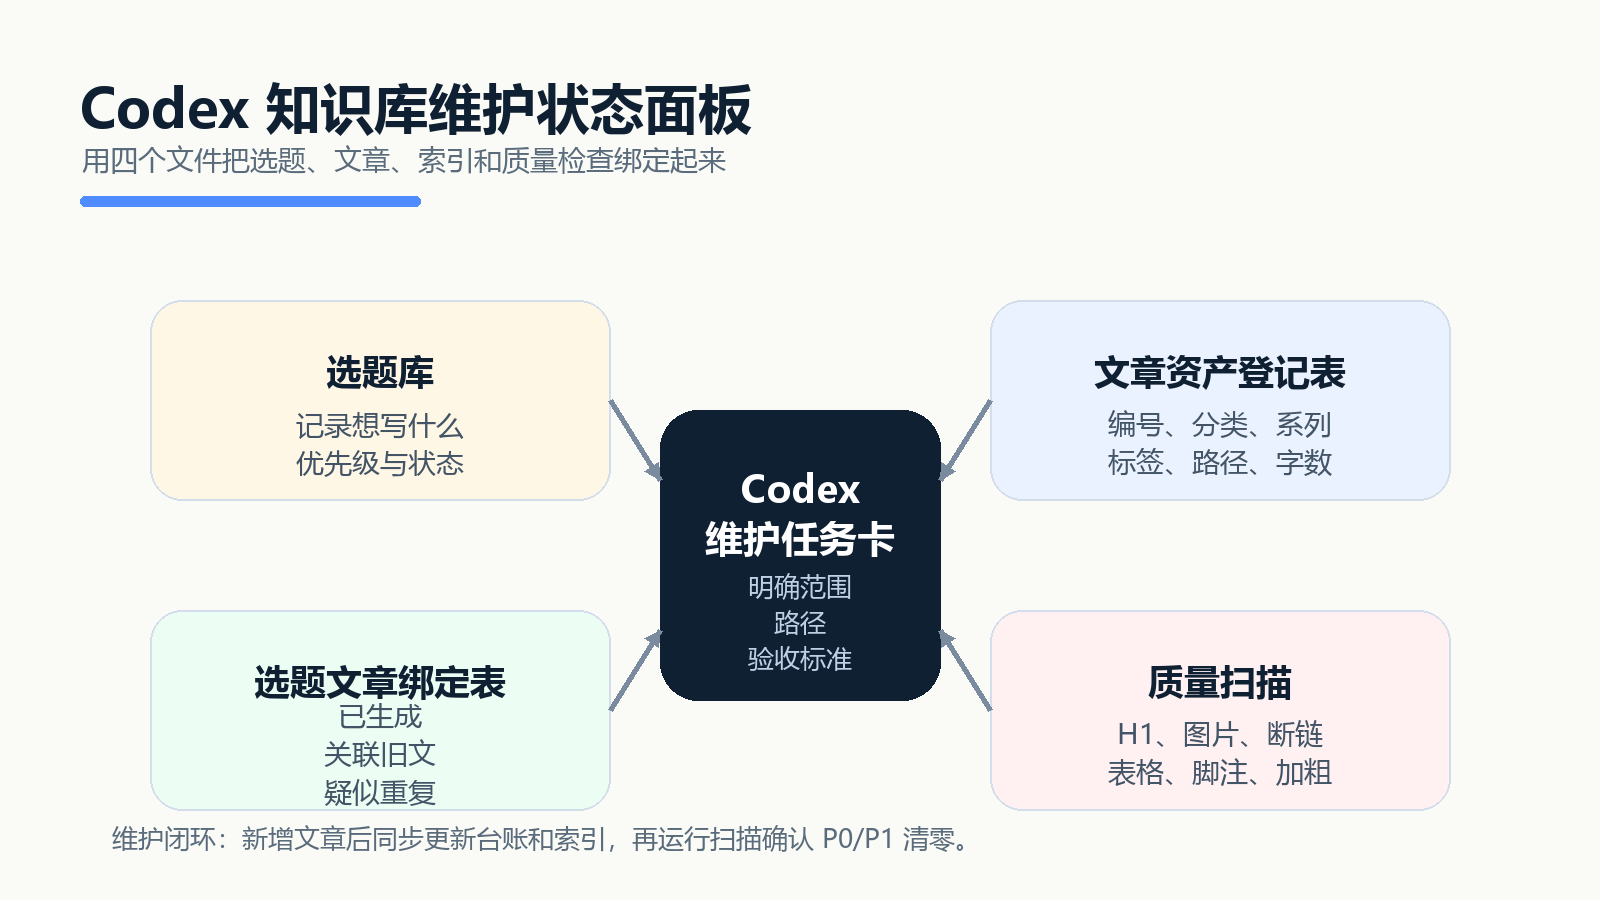
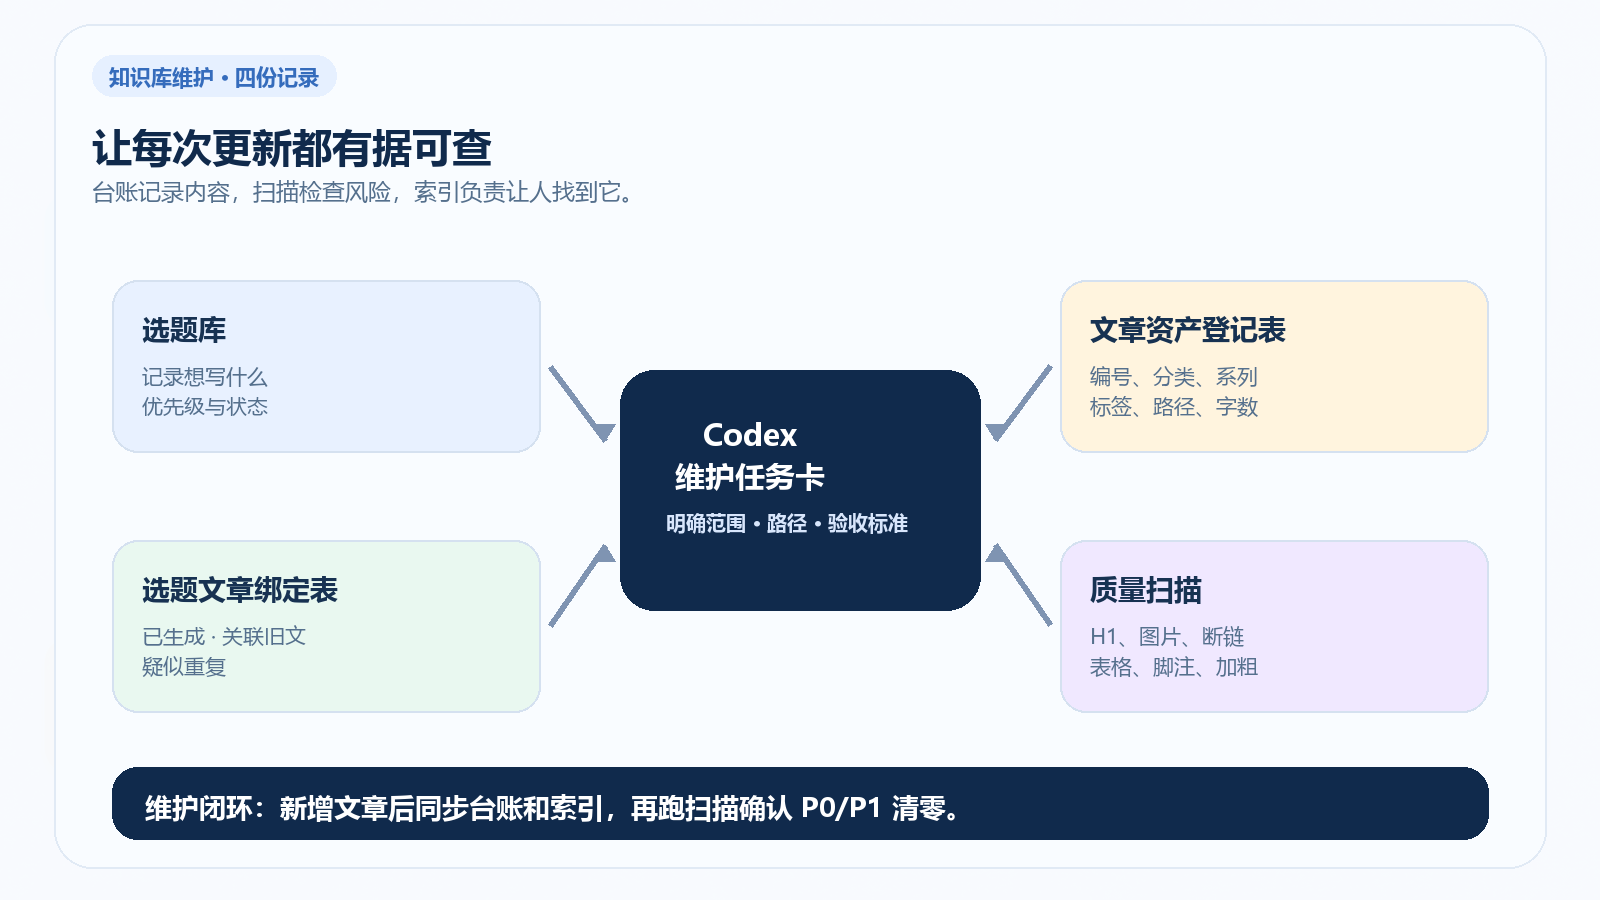
Improve article visuals and publishing metadata

diff --git a/01-工具教程/17-给 Codex 换了一套私人工作台：AI Coding 正在进入个性化时代.md b/01-工具教程/17-给 Codex 换了一套私人工作台：AI Coding 正在进入个性化时代.md
@@ -8,13 +8,11 @@
 
 私人空间不是把屏幕塞满装饰。它应该让常用区域更舒服：左侧项目更容易辨认，输入框不被干扰，任务页有稳定的视觉节奏。Dream Skin 提供的正是这种改造入口。
 
-## 一个趋势：AI Coding 进入个性化时代
+## 当使用时间变长，个性化才有价值
 
-过去，开发工具的个性化主要是深色模式、字体、主题色和插件。现在，AI Coding 已经从单次问答变成持续工作的协作界面：它既是编辑器旁的助手，也是任务队列、上下文入口和工作记录。
+开发工具的个性化常见于深色模式、字体、主题色和插件。对把 AI Coding 当作持续协作入口的人来说，界面也会承载任务上下文、项目切换和工作记录，而不只是一次问答的窗口。
 
-当工具承担的角色变多，界面自然会从统一的产品皮肤走向个人的工作环境。有人需要降低长时间工作的疲劳感，有人希望项目空间更有辨识度，也有人只是想让每天打开的 AI 工具更贴近自己的节奏。
-
-个性化的价值不在于好看，而在于把注意力留在真正要做的事上。
+这不等于每个人都需要换主题。只有当默认界面已经影响长期使用感受、又能把安装和还原边界控制清楚时，个性化才值得尝试。它的价值不在于好看，而在于把注意力留在真正要做的事上。
 
 ## Dream Skin 是什么
 
@@ -22,19 +20,19 @@ Dream Skin 是给 Codex 叠加主题效果的第三方工具，不是 OpenAI 官
 
 它能改变的是界面观感，例如背景图和主题氛围；它不会替你升级模型、扩大权限，也不会让任务能力凭空变强。因此，使用它前要先把预期放对：这是工作台体验的增强，不是功能外挂。
 
-![首次安装皮肤时的风格展示](<../08-素材库/图片/正文插图/17-给 Codex 换了一套私人工作台：AI Coding 正在进入个性化时代-正文插图04.png>)
+![个性化工作台的 AI 视觉示意](<../08-素材库/图片/正文插图/17-给 Codex 换了一套私人工作台：AI Coding 正在进入个性化时代-正文插图04.png>)
 
-*图 1：首次安装后的主题效果。保留 Codex 原生侧栏、输入框和任务区域，是判断皮肤是否影响基础布局的第一步。*
+*图 1：AI 视觉示意。主题只承载装饰层；导航、任务区与输入框仍需保持高对比和足够留白。*
 
-## 我的实际体验
+## 工作台可用性的检查点
 
-这次我选了矿工猫插画作为背景。浅色模式下，主页横幅、项目侧栏和输入区能同时保留，视觉上有了清晰的个人标识，同时没有挤压操作空间。
+下图以矿工猫主题视觉示意说明：浅色模式下，主页横幅、项目侧栏和输入区应同时保留；视觉个性不能挤压操作空间。
 
-![矿工猫皮肤的主页工作台](<../08-素材库/图片/正文插图/17-给 Codex 换了一套私人工作台：AI Coding 正在进入个性化时代-正文插图06-矿工猫主页.jpg>)
+![矿工猫主题工作台的 AI 视觉示意](<../08-素材库/图片/正文插图/17-给 Codex 换了一套私人工作台：AI Coding 正在进入个性化时代-正文插图06-矿工猫主页.jpg>)
 
-*图 2：矿工猫皮肤在 Codex 主页的实测效果。横幅背景控制在内容区域内，不遮挡左侧项目导航和底部输入框。*
+*图 2：AI 视觉示意。用“导航仍清楚、内容不抢读、输入保持可用”三项检查主题是否挤压操作空间。*
 
-实际体验也给了一个提醒：不要只在首页看一眼就认为安装成功。矿工猫图切换到深色模式后出现过显示异常，所以我没有把它当作稳定的日常配置。皮肤是否可用，要看它能不能陪你完整做完一项任务。
+这也提醒我们：不要只在首页看一眼就判断安装成功。尤其在深色模式下，若出现显示异常，就不应把主题作为稳定的日常配置。皮肤是否可用，要看它能不能陪你完整做完一项任务。
 
 ## 为什么不是简单换背景
 
@@ -42,33 +40,28 @@ Dream Skin 是给 Codex 叠加主题效果的第三方工具，不是 OpenAI 官
 
 因此，换皮肤之后要做一次真实任务页验证：新建空任务，输入文字，点击侧栏，检查建议卡，向下滚动，并确认没有横向溢出。只有这些基础动作都正常，视觉改造才没有越界。
 
-![矿工猫皮肤的新任务页验证](<../08-素材库/图片/正文插图/17-给 Codex 换了一套私人工作台：AI Coding 正在进入个性化时代-正文插图07-矿工猫任务页.jpg>)
+![矿工猫主题任务页的 AI 视觉示意](<../08-素材库/图片/正文插图/17-给 Codex 换了一套私人工作台：AI Coding 正在进入个性化时代-正文插图07-矿工猫任务页.jpg>)
 
-*图 3：新任务页验证截图。背景、欢迎语与输入框可以共存，侧栏和输入区域仍保持可用。*
+*图 3：AI 视觉示意。新建任务、输入文本、切换侧栏、滚动页面与无横向溢出，才是继续使用主题的最低验证线。*
 
 这也是选择背景图时最实用的标准：不要使用带软件界面、按钮或大段文字的截图；把视觉主体留在输入框和左侧导航之外；只导入自己有权使用的图片，并保留原图与授权记录。
 
 ## 安装教程
 
-先在一个空文件夹打开 Codex。不要一上来就执行安装，先让它阅读脚本，确认实际入口、修改范围和还原路径。可以直接发出下面这段需求：
+Dream Skin 是第三方项目，先按它的 [Release 页面](https://github.com/Fei-Away/Codex-Dream-Skin/releases)走普通用户安装流程，不要把源码开发流程和日常安装混在一起。
 
-> 请在当前工作区安装 GitHub 项目 Fei-Away/Codex-Dream-Skin。先克隆到 tools 目录，检查 Node.js 是否为 22 或更高版本，并检查 Microsoft Store 版 Codex 是否已安装。阅读仓库 windows 目录中的安装脚本，告诉我实际入口文件、会修改哪些本地配置、如何还原。不要修改 WindowsApps，也不要执行安装，等我确认。
+1. 完全退出 Codex 或 ChatGPT 桌面应用，并先保存未发送的输入与正在进行的任务。
+2. 从最新 Release 下载与系统匹配的安装包；Windows 用户运行包内的 `Setup.bat`，随后重新启动桌面应用。
+3. 先在主页看布局，再新建一个空任务：输入文字、点击侧栏、检查建议卡、向下滚动，并确认没有横向溢出。
+4. 只有这些基础动作都正常，才继续导入自己的 PNG、JPEG 或 WebP 背景图。
 
-确认说明无误后，再继续：
+普通用户安装不需要为了这一步克隆仓库，也不需要预装 Node.js。克隆仓库和 Node.js 环境属于源码查看或二次开发路径；如果你要走这条路，应以项目 README 当期说明为准，而不是沿用旧脚本名或旧版本号。
 
-> 继续执行安装，执行前请提醒我保存未发送的内容；安装后启动 Dream Skin，打开一个新任务页做验证，确认侧栏、建议卡、输入框和滚动都正常，再告诉我验证结果与还原命令。
+需要先审查脚本时，可以把范围限定为只读：
 
-本次测试使用的安装入口在 `windows` 根目录。克隆完成后，不要凭印象猜脚本位置，直接搜索 `install-dream-skin.ps1`。安装后在系统托盘打开 **Codex Dream Skin - Tray**：先保存当前主题，再导入 PNG、JPEG 或 WebP 图片。
+> **审查任务卡：** 请只读取 Dream Skin 的 README、安装与还原脚本；列出实际入口、会修改的本地配置、还原步骤和重启要求。不要执行安装，不要修改 `WindowsApps`，等我确认。
 
-验证脚本可在克隆目录中执行：
-
-> powershell.exe -NoProfile -ExecutionPolicy Bypass -File .\verify-dream-skin.ps1
-
-如果不喜欢效果，或验证出现异常，先保存当前工作，再定位并运行还原脚本：
-
-> powershell.exe -NoProfile -ExecutionPolicy Bypass -File .\restore-dream-skin.ps1 -RestoreBaseTheme -PromptRestart
-
-它会提示重启 Codex。重启后再新建一个空任务，确认默认界面、输入框和侧栏都恢复正常。
+如果不喜欢效果，或任务页验证出现异常，先保存当前工作，再使用项目当前版本提供的还原入口恢复默认主题；重启后重新新建一个空任务，确认默认界面、输入框和侧栏都恢复正常。
 
 ## 安全注意事项
 
@@ -90,11 +83,9 @@ Dream Skin 需要接触本机应用的调试能力，所以它适合在你理解
 
 如果你只偶尔打开 Codex，或者不愿意检查第三方脚本与还原路径，保持默认界面反而更省心。个性化不是必选项，稳定才是前提。
 
-## 未来：每个人都会拥有自己的 AI 工作台
+## 私人工作台的边界
 
-AI 不会只停在一个网页聊天框里。它会越来越像长期陪伴的工作环境：知道你常用的项目，接得住你的流程，也呈现出你愿意停留的界面。
-
-未来的个人 AI 工作台，可能有自己的配色、角色、知识入口和自动化规则。但无论界面如何变化，有一条底线不会变：视觉服务于工作，任何改造都必须随时能验证、能还原。
+当 AI 工具进入日常项目协作，界面可以有自己的配色、角色和知识入口；但这些都不应压过稳定性。任何改造都应满足同一条底线：视觉服务于工作，并且随时能验证、能还原。
 
 ## 总结
 

diff --git a/01-工具教程/18-Hermes Agent 新手快速上手：从安装到跑通第一个 Agent.md b/01-工具教程/18-Hermes Agent 新手快速上手：从安装到跑通第一个 Agent.md
@@ -1,3 +1,5 @@
+> 一句话结论：第一天只验证 Hermes 能启动、模型能回复、只读任务可复核、会话能续接；Gateway、Skills 和 MCP 留到基础链路稳定之后。
+
 第一次装 Hermes，最容易浪费时间的不是安装命令，而是把模型、工具、消息平台和定时任务一起打开。任何一处配置没对，报错都会混在一起，最后连第一步出了什么问题都说不清。
 
 这篇只解决新手第一天最该做的事：在 30 分钟内跑通一个可核查的闭环。你需要看到 `hermes` 能启动、模型能回复、它能完成一次低风险的目录阅读，并且能接着同一段会话继续工作。
@@ -21,21 +23,15 @@
 
 Windows 原生 PowerShell：
 
-```powershell
-iex (irm https://hermes-agent.nousresearch.com/install.ps1)
-```
+> Windows PowerShell 安装命令： `iex (irm https://hermes-agent.nousresearch.com/install.ps1)`
 
 Linux、macOS、WSL2 和 Termux：
 
-```bash
-curl -fsSL https://hermes-agent.nousresearch.com/install.sh | bash
-```
+> Linux、macOS、WSL2 和 Termux 安装命令： `curl -fsSL https://hermes-agent.nousresearch.com/install.sh | bash`
 
 除 Windows 外，安装器唯一前置是 Git；Linux 还需要 `curl` 和 `xz-utils`。安装后重新打开终端，再运行：
 
-```bash
-hermes
-```
+> 启动命令： `hermes`
 
 这一步只确认命令能否真正启动。Windows 用户尤其要避免在 PowerShell、Git Bash 与 WSL 之间来回切换：后续配置和运行尽量放在同一套终端环境里。安装方式与平台支持会更新，遇到版本差异时，以 [Hermes Agent Quickstart](https://hermes-agent.nousresearch.com/docs/getting-started/quickstart) 和 [Installation](https://hermes-agent.nousresearch.com/docs/getting-started/installation) 为准。
 
@@ -43,9 +39,7 @@ hermes
 
 启动 Hermes 后，先运行：
 
-```bash
-hermes model
-```
+> 模型配置命令： `hermes model`
 
 它会引导你选择 Provider 和模型。这里检查的不是模型名称好不好看，而是认证、端点、模型权限和额度能否一起工作。官方 Quickstart 还建议为 Agent 选择至少 64K 上下文窗口的模型；上下文太短时，任务一长就容易丢掉前面的文件证据和限制条件。
 
@@ -59,7 +53,7 @@ hermes model
 
 模型配置好后，先不要让它改代码、发消息或操作浏览器。选一个没有密钥、没有客户数据的测试目录，最好是项目副本，然后发出下面这张任务卡：
 
-> **第一次任务卡**
+> 第一次任务卡
 >
 > 请先只读当前目录，不要修改任何文件，也不要执行会改变环境的命令。
 >
@@ -77,11 +71,7 @@ hermes model
 
 如果模型不响应、回答为空，或结论明显对不上文件，先停在基础链路排查：
 
-```bash
-hermes doctor
-hermes model
-hermes setup
-```
+> 基础诊断顺序： `hermes doctor` → `hermes model` → `hermes setup`
 
 先看诊断结果，再确认 Provider 和模型；只有基础对话稳定后，才值得继续加工具。
 
@@ -89,9 +79,7 @@ hermes setup
 
 第一轮任务结束后，运行：
 
-```bash
-hermes --continue
-```
+> 续接会话命令： `hermes --continue`
 
 接着发送：
 
@@ -99,9 +87,7 @@ hermes --continue
 
 这一步的验收不是看它写得多流畅，而是看它会不会沿用前一轮已经核对过的文件。找不到旧会话时，先运行：
 
-```bash
-hermes sessions list
-```
+> 列出会话命令： `hermes sessions list`
 
 确认自己仍在同一个 profile 与会话范围内，再决定是否重开任务。不要一看到上下文断掉，就先怀疑安装脚本或记忆功能。
 
@@ -123,9 +109,9 @@ hermes sessions list
 
 这些能力不是不能用，而是不该在基础链路还没验证时一起开启。
 
-- **Gateway** 可能引入 bot token、消息平台、身份白名单和触发规则。
-- **Skills** 需要核对安装来源、执行步骤与外部依赖。
-- **MCP 和外部工具** 往往涉及网络、账号、读写权限和数据边界。
+- Gateway 可能引入 bot token、消息平台、身份白名单和触发规则。
+- Skills 需要核对安装来源、执行步骤与外部依赖。
+- MCP 和外部工具 往往涉及网络、账号、读写权限和数据边界。
 
 需要连接 Telegram、Discord、Slack 等入口时，再运行 `hermes gateway setup`。每新增一个连接，只做一个小任务，并重新检查它引用的文件、权限和输出；不要把联网、写文件、执行命令和账号访问同时交给一个刚配好的 Agent。
 

diff --git a/00-知识库导航/知识库总索引.md b/00-知识库导航/知识库总索引.md
@@ -23,4 +23,4 @@
 | 15 | [OpenClaw 新手上手指南：把 AI 助手接进常用聊天软件](<../01-工具教程/15-OpenClaw 新手上手指南：把 AI 助手接进常用聊天软件.md>) | 工具教程 | AI工具连接与系统 | OpenClaw, AI Agent, Gateway | 待上线 | 3207 |
 | 16 | [Codex 不只是写代码：从 0 到 1 搭建使用帮助知识库](<../05-案例实战/16-Codex 不只是写代码：从 0 到 1 搭建使用帮助知识库.md>) | 案例实战 | Codex入门与工程化 | Codex, 知识库, 工作流 | 待上线 | 3183 |
 | 17 | [给 Codex 换了一套私人工作台：AI Coding 正在进入个性化时代](<../01-工具教程/17-给 Codex 换了一套私人工作台：AI Coding 正在进入个性化时代.md>) | 工具教程 | Codex入门与工程化 | Codex, AI Coding, 个性化工作台 | 待上线 | 2189 |
-| 18 | [Hermes Agent 新手快速上手：从安装到跑通第一个 Agent](<../01-工具教程/18-Hermes Agent 新手快速上手：从安装到跑通第一个 Agent.md>) | 工具教程 | AI工具连接与系统 | Hermes Agent, AI Agent, 工具教程 | 待上线 | 2965 |
+| 18 | [Hermes Agent 新手快速上手：从安装到跑通第一个 Agent](<../01-工具教程/18-Hermes Agent 新手快速上手：从安装到跑通第一个 Agent.md>) | 工具教程 | AI工具连接与系统 | Hermes Agent, AI Agent, 工具教程 | 待上线 | 1831 |

diff --git a/README.md b/README.md
@@ -77,4 +77,4 @@
 | 15 | [OpenClaw 新手上手指南：把 AI 助手接进常用聊天软件](<01-工具教程/15-OpenClaw 新手上手指南：把 AI 助手接进常用聊天软件.md>) | 工具教程 | AI工具连接与系统 | OpenClaw, AI Agent, Gateway | 待上线 | 3207 |
 | 16 | [Codex 不只是写代码：从 0 到 1 搭建使用帮助知识库](<05-案例实战/16-Codex 不只是写代码：从 0 到 1 搭建使用帮助知识库.md>) | 案例实战 | Codex入门与工程化 | Codex, 知识库, 工作流 | 待上线 | 3183 |
 | 17 | [给 Codex 换了一套私人工作台：AI Coding 正在进入个性化时代](<01-工具教程/17-给 Codex 换了一套私人工作台：AI Coding 正在进入个性化时代.md>) | 工具教程 | Codex入门与工程化 | Codex, AI Coding, 个性化工作台 | 待上线 | 2189 |
-| 18 | [Hermes Agent 新手快速上手：从安装到跑通第一个 Agent](<01-工具教程/18-Hermes Agent 新手快速上手：从安装到跑通第一个 Agent.md>) | 工具教程 | AI工具连接与系统 | Hermes Agent, AI Agent, 工具教程 | 待上线 | 2965 |
+| 18 | [Hermes Agent 新手快速上手：从安装到跑通第一个 Agent](<01-工具教程/18-Hermes Agent 新手快速上手：从安装到跑通第一个 Agent.md>) | 工具教程 | AI工具连接与系统 | Hermes Agent, AI Agent, 工具教程 | 待上线 | 1831 |

diff --git a/07-资料与流程/图片归档清单.md b/07-资料与流程/图片归档清单.md
@@ -151,3 +151,20 @@
 - 数量：1
 - 文件：
   - `24-AI 能操作电脑了，普通人先别急着全自动：一份权限与验收清单-正文插图02.jpg`
+
+### 18｜Hermes Agent 新手快速上手：从安装到跑通第一个 Agent
+
+- 分类：当前正式文章的未采用插图
+- 数量：2
+- 文件：
+  - `18-Hermes Agent 新手快速上手：从安装到跑通第一个 Agent-正文插图02.png`
+  - `18-Hermes Agent 新手快速上手：从安装到跑通第一个 Agent-正文插图03.png`
+
+### 2026-07-27 第 16、17 篇视觉重绘前原图
+
+- 保留原因：旧版图因长横排流程、拟真界面与信息层级问题而替换；仅作回溯，不再被正式文章引用。
+- `16-Codex 不只是写代码：从 0 到 1 搭建使用帮助知识库-正文插图01-20260727-旧版横向六卡.png`
+- `16-Codex 不只是写代码：从 0 到 1 搭建使用帮助知识库-正文插图02-20260727-旧版维护面板.png`
+- `17-给 Codex 换了一套私人工作台：AI Coding 正在进入个性化时代-正文插图04-20260727-旧版主题界面.png`
+- `17-给 Codex 换了一套私人工作台：AI Coding 正在进入个性化时代-正文插图06-矿工猫主页-20260727-旧版示意.jpg`
+- `17-给 Codex 换了一套私人工作台：AI Coding 正在进入个性化时代-正文插图07-矿工猫任务页-20260727-旧版示意.jpg`

diff --git a/01-工具教程/README.md b/01-工具教程/README.md
@@ -11,4 +11,4 @@
 | 09 | [Codex 智能体与 Skills 中文参考手册](<09-Codex 智能体与 Skills 中文参考手册.md>) | Codex入门与工程化 | 智能体, Skill, 手册 | 7525 |
 | 15 | [OpenClaw 新手上手指南：把 AI 助手接进常用聊天软件](<15-OpenClaw 新手上手指南：把 AI 助手接进常用聊天软件.md>) | AI工具连接与系统 | OpenClaw, AI Agent, Gateway | 3207 |
 | 17 | [给 Codex 换了一套私人工作台：AI Coding 正在进入个性化时代](<17-给 Codex 换了一套私人工作台：AI Coding 正在进入个性化时代.md>) | Codex入门与工程化 | Codex, AI Coding, 个性化工作台 | 2189 |
-| 18 | [Hermes Agent 新手快速上手：从安装到跑通第一个 Agent](<18-Hermes Agent 新手快速上手：从安装到跑通第一个 Agent.md>) | AI工具连接与系统 | Hermes Agent, AI Agent, 工具教程 | 2965 |
+| 18 | [Hermes Agent 新手快速上手：从安装到跑通第一个 Agent](<18-Hermes Agent 新手快速上手：从安装到跑通第一个 Agent.md>) | AI工具连接与系统 | Hermes Agent, AI Agent, 工具教程 | 1831 |

diff --git a/07-资料与流程/选题文章绑定表.md b/07-资料与流程/选题文章绑定表.md
@@ -1,6 +1,6 @@
 # 选题文章绑定表
 
-> 更新时间：2026-07-23
+> 更新时间：2026-07-27
 > 作用：把 `选题库.md` 中的选题ID，与已经生成/入库的正文文件绑定，方便查看状态，避免把同一主题重复写成多篇文章。
 > 数据来源：`选题库.md`、`文章资产登记表.md`。
 
